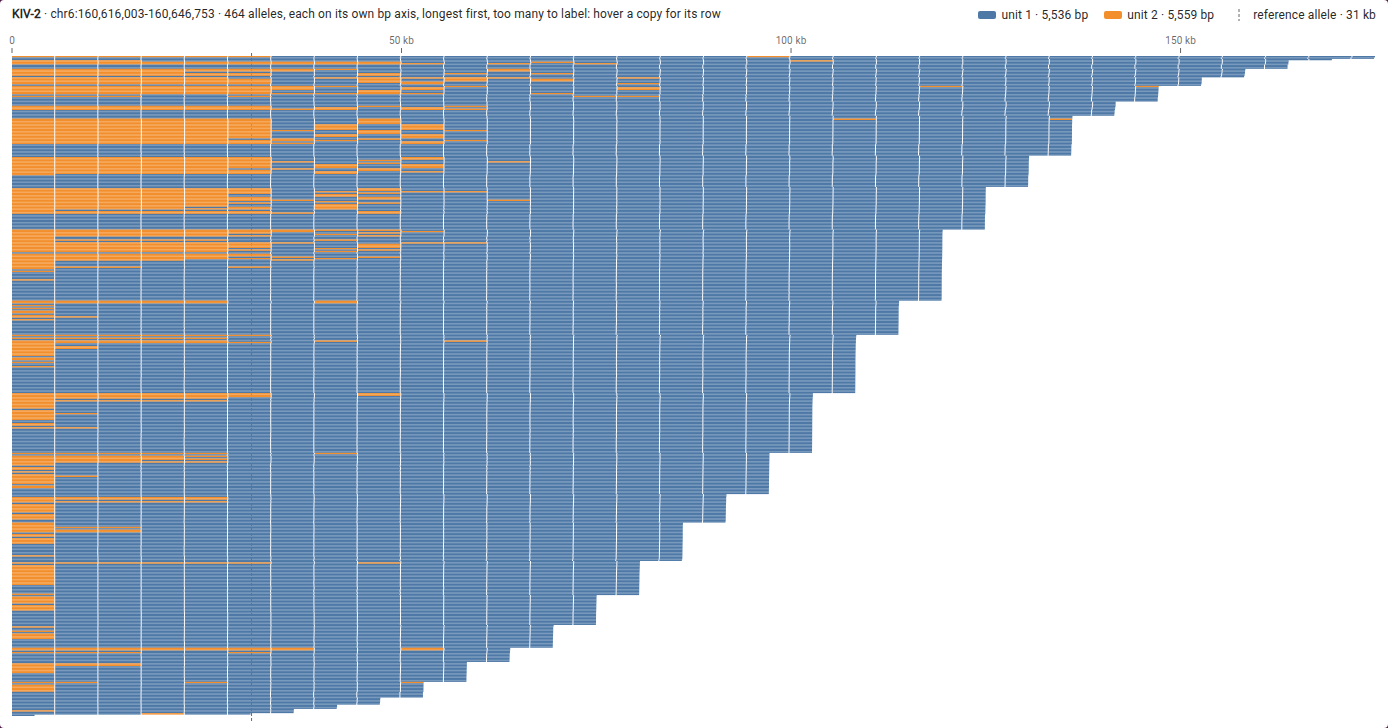
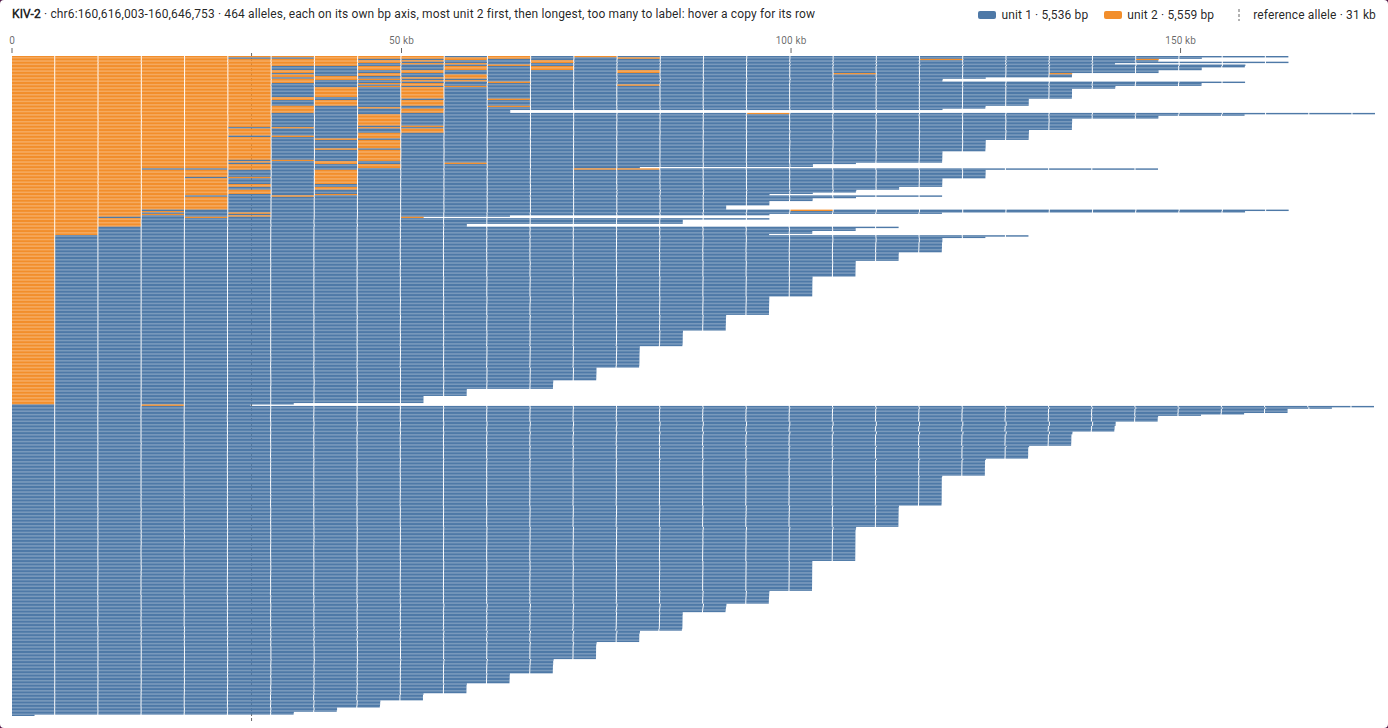
README: the cohort figure sorts unit 2 carriers first, and --sites names KIV-2B

diff --git a/README.md b/README.md
@@ -100,11 +100,18 @@ and grouping copies within 1% of each other into a unit. Two units come out,
 
 `hprc_kiv2_copies_all` holds the same array in all 464 haplotypes whose walks
 reach both of its flanks, GRCh38 included. Past 30 rows the view squeezes its
-rows into the height of 30, longest first and unlabelled; hovering a copy names
-its haplotype. Unit 2 opens 245 of the 464 arrays, and every array that holds
-unit 2 opens with it except GRCh38's, whose only unit 2 copy sits fourth.
+rows into the height of 30, unlabelled, those with the most copies of the rarest
+unit first, then longest; hovering a copy names its haplotype. Unit 2 leads
+every array that holds it except GRCh38's, the lone row whose only unit 2 copy
+sits fourth. Given the exons of one copy, `--sites` shows the units differ in
+exon 1 at positions 14, 41 and 86, the sites that define KIV-2B:
 
-![LPA's KIV-2 array in 464 HPRC haplotypes, longest first, each copy coloured by its unit](img/kiv2_copies_all.png)
+```
+node scripts/tandem-repeat-vcf.mjs cut.gfa --bed arrays.bed --name KIV-2 \
+  --sites kiv2_exons.bed > /dev/null
+```
+
+![LPA's KIV-2 array in 464 HPRC haplotypes, those carrying unit 2 first, each copy coloured by its unit](img/kiv2_copies_all.png)
 
 ## Usage
 
